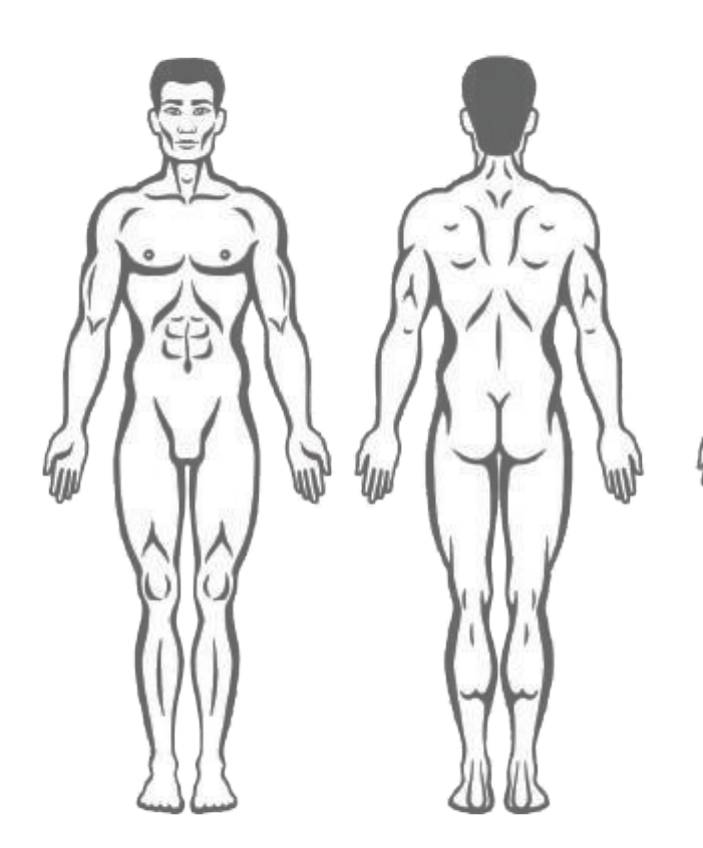
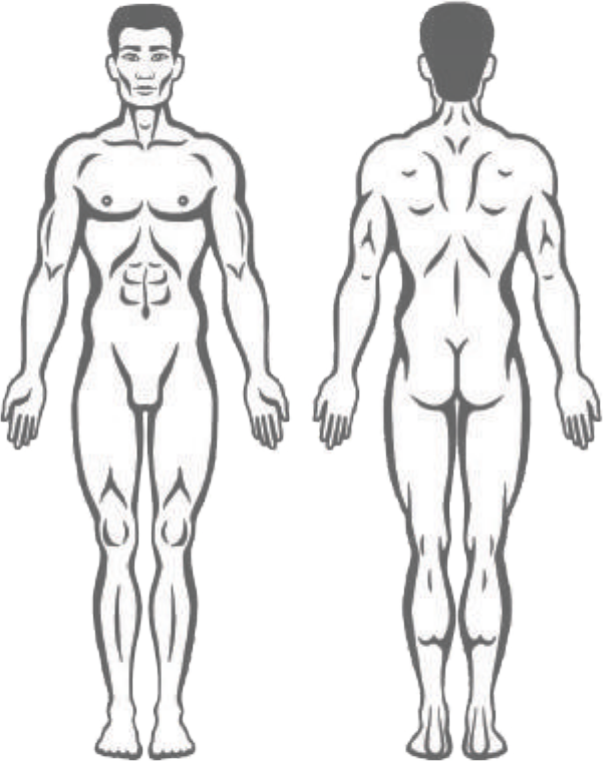
fix(PAS): equipo e indicativos a cuatro, tiempos centrados y siluetas limpias
- Equipo pasa de tres huecos a cuatro
- Indicativos que intervienen pasa de dos a cuatro, en dos filas de dos, y cada
  hueco es un desplegable que ofrece primero los indicativos ya puestos en
  Equipo, que son los que han intervenido, y despues el resto del servicio
- Las horas de las pautas de tiempo se centran y ocupan lo que da la celda, en
  vez de quedarse en 15 mm fijos
- El resultado del Glasgow baja de 9 a 7,1 pt, el mismo cuerpo que el resto
- "Colchon de vacio" pasa a "Colchon vacio" para que entre en una linea

SILUETAS
La rebaba entre las dos imagenes era mia: al extraerlas del modelo deje 1 mm de
margen alrededor. Se vuelven a recortar con la caja exacta y ademas se ajustan
al dibujo quitando el blanco sobrante, con lo que las dos quedan a la misma
altura. Se centran en su hueco y conservan la resolucion de 300 ppp.

Changed region(s): [[0.0, 0.0, 1.0, 1.0]]

diff --git a/src/components/partes/PasHoja.tsx b/src/components/partes/PasHoja.tsx
@@ -217,8 +217,8 @@ export default function PasHoja({
                                 <Sec>Pautas de tiempo</Sec>
                                 {PAUTAS_TIEMPO.map(p => (
                                     <div key={p.key} style={{ display: 'flex', alignItems: 'center', gap: '1mm', marginTop: '.35mm' }}>
-                                        <span style={{ flex: 1, fontSize: '6pt', textAlign: 'right', textTransform: 'uppercase' }}>{p.label}</span>
-                                        <input type="time" className="pas-campo pas-centrado" style={{ width: '15mm', height: '3.1mm' }}
+                                        <span style={{ flex: '0 0 12mm', fontSize: '5.4pt', textAlign: 'right', textTransform: 'uppercase' }}>{p.label}</span>
+                                        <input type="time" className="pas-campo pas-centrado" style={{ flex: 1, minWidth: 0, height: '3.1mm', fontSize: '6pt' }}
                                                value={(d as any)[p.key] || ''} disabled={!editable}
                                                onChange={e => onCampo?.(p.key as keyof PasDatos, e.target.value)} />
                                     </div>
@@ -399,7 +399,7 @@ export default function PasHoja({
                             <div style={{ gridColumn: '1 / -1', display: 'flex', alignItems: 'center',
                                           justifyContent: 'flex-end', gap: '1.4mm', marginTop: '.6mm' }}>
                                 <span style={{ fontSize: '5.6pt', fontWeight: 700, textTransform: 'uppercase', color: 'var(--etiqueta)' }}>Total</span>
-                                <span style={{ fontSize: '9pt', fontWeight: 800, color: 'var(--azul)' }}>
+                                <span style={{ fontSize: '7.1pt', fontWeight: 800, color: 'var(--azul)' }}>
                                     {totalGlasgow(d.constantes[0].glasgowO, d.constantes[0].glasgowV, d.constantes[0].glasgowM) ?? '—'} / 15
                                 </span>
                             </div>
@@ -552,11 +552,24 @@ export default function PasHoja({
                     <Bloque y="254.4mm" x="109.5mm" w="43mm">
                         <Sec>Indicativos que intervienen</Sec>
                         <div className="pas-caja">
-                            {d.indicativosIntervienen.map((v, i) => (
-                                <input key={i} className="pas-campo pas-centrado" style={{ marginTop: i ? '.8mm' : 0 }}
-                                       value={v} readOnly={!editable}
-                                       onChange={e => { const n = [...d.indicativosIntervienen]; n[i] = e.target.value; onCampo?.('indicativosIntervienen', n) }} />
-                            ))}
+                            {/* Cuatro huecos, en dos filas de dos. Ofrecen primero los
+                                indicativos ya puestos en «Equipo», que son los que han
+                                intervenido, y despues el resto del servicio. */}
+                            <div style={{ display: 'grid', gridTemplateColumns: '1fr 1fr', gap: '.6mm' }}>
+                                {d.indicativosIntervienen.map((v, i) => {
+                                    const delEquipo = d.equipo.filter(Boolean)
+                                    const resto = indicativos.filter(x => !delEquipo.includes(x))
+                                    return (
+                                        <select key={i} className="pas-campo pas-centrado" style={{ height: '3.4mm' }}
+                                                value={v} disabled={!editable}
+                                                onChange={e => { const n = [...d.indicativosIntervienen]; n[i] = e.target.value; onCampo?.('indicativosIntervienen', n) }}>
+                                            <option value="">—</option>
+                                            {delEquipo.map(x => <option key={'e' + x} value={x}>{x}</option>)}
+                                            {resto.map(x => <option key={x} value={x}>{x}</option>)}
+                                        </select>
+                                    )
+                                })}
+                            </div>
                         </div>
                     </Bloque>
 

diff --git a/src/lib/pas-campos.ts b/src/lib/pas-campos.ts
@@ -76,7 +76,7 @@ export const INMOVILIZACION: Item[] = [
     { key: 'in_fernokit', label: 'Fernokit' },
     { key: 'in_inm_cabeza', label: 'Inm. cabeza' },
     { key: 'in_camilla_tijera', label: 'Camilla tijera' },
-    { key: 'in_colchon_vacio', label: 'Colchón de vacío' },
+    { key: 'in_colchon_vacio', label: 'Colchón vacío' },
     { key: 'in_ferula_ms', label: 'Férula M.S.' },
     { key: 'in_ferula_mi', label: 'Férula M.I.' },
     { key: 'in_ferula_tracc', label: 'Férula tracc.' },
@@ -201,7 +201,7 @@ export function estadoInicialPAS() {
         fecha: '', hora: '', numeroInforme: '',
         lugar: '', motivo: '', alertante: '',
         vehiculos: ['', '', ''] as string[],
-        equipo: ['', '', ''] as string[],
+        equipo: ['', '', '', ''] as string[],
         tLlamada: '', tSalida: '', tLlegada: '', tTerminado: '', tDisponible: '',
 
         // Filiación del paciente
@@ -233,7 +233,7 @@ export function estadoInicialPAS() {
         testigo1: '', testigo2: '',
 
         // Firmas
-        indicativosIntervienen: ['', ''] as string[],
+        indicativosIntervienen: ['', '', '', ''] as string[],
         firmaIndicativos: '', firmaJefe: '',
     }
 }

diff --git a/src/components/partes/pas-hoja.css b/src/components/partes/pas-hoja.css
@@ -116,11 +116,11 @@ textarea.pas-campo { height: auto; padding: 1mm; resize: none; line-height: 1.35
 .pas-lista tr:nth-child(even) td { background: var(--campo); }
 
 /* ── Figuras anatómicas con marcas de lesión ─────────────────────────────── */
-.pas-figuras { position: relative; display: flex; gap: 2mm; }
+.pas-figuras { position: relative; display: flex; gap: 3mm; justify-content: center; align-items: flex-start; }
 /* Las dos imágenes tienen proporciones distintas en el original; se les da el
    mismo alto y se reparten el ancho a partes iguales para que ocupen lo mismo. */
 .pas-figura { position: relative; flex: 1 1 0; min-width: 0; }
-.pas-figura img { height: 69.8mm; width: 100%; object-fit: contain; object-position: top; }
+.pas-figura img { height: 69.8mm; width: 100%; object-fit: contain; object-position: center top; image-rendering: auto; }
 .pas-figura img { width: 100%; height: auto; display: block; }
 .pas-figura.editable { cursor: crosshair; }
 .pas-marca {
